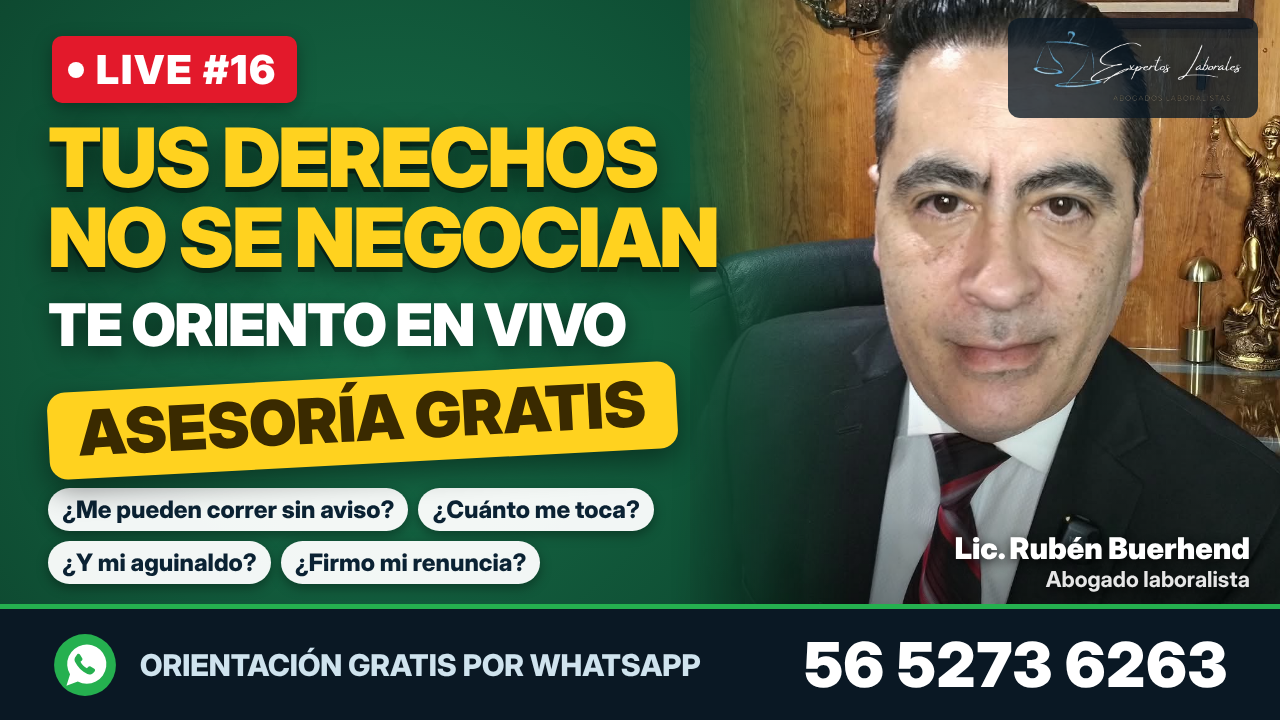
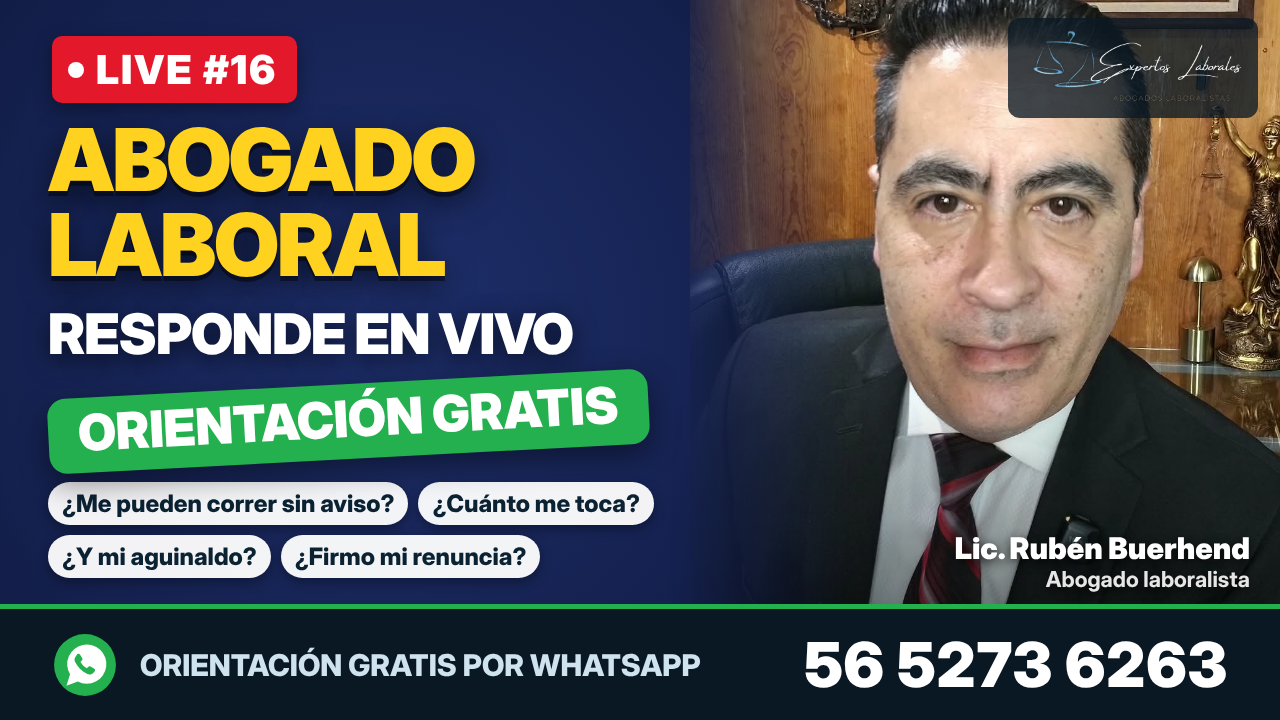
Miniaturas: 3 colores nuevos (negro, vino, azul marino)
Claude-Session: https://claude.ai/code/session_01C3deJav44xscTHSyeunJhm

diff --git a/marketing/miniaturas/generar_serie_lives.js b/marketing/miniaturas/generar_serie_lives.js
@@ -14,7 +14,7 @@ const FOTOS={
   roja:{src:'../fotos/ruben_selfie_corbata_roja.jpg',w:744,l:20,t:-230},
   selfie:{src:'../fotos/ruben_selfie_cerca_derecha.jpg',w:832,l:-192,t:-264,tapaDerecha:true},
 };
-const COLORES=[['#1f4e6b','#143650','#0b2233'],['#7a1a22','#4a0d14','#24060a'],['#17704a','#0e4a31','#062417'],['#5b3391','#3a1f63','#1b0d31'],['#b85a12','#7a3a0a','#331804'],['#126b78','#0b4650','#042226']];
+const COLORES=[['#1f4e6b','#143650','#0b2233'],['#7a1a22','#4a0d14','#24060a'],['#17704a','#0e4a31','#062417'],['#5b3391','#3a1f63','#1b0d31'],['#b85a12','#7a3a0a','#331804'],['#126b78','#0b4650','#042226'],['#3a3a3a','#1f1f1f','#0a0a0a'],['#6b1838','#450f24','#1f0610'],['#1e2f6b','#121d47','#070c22']];
 const FRASES=[
  {l1:'¿PROBLEMAS EN TU TRABAJO?',l2:'RESPONDO TUS PREGUNTAS',pill:'EN VIVO Y GRATIS'},
  {l1:'TUS DUDAS LABORALES',l2:'RESUELTAS EN VIVO',pill:'ASESORÍA GRATIS'},
@@ -73,7 +73,7 @@ for(let n=DESDE;n<=HASTA;n++){
 }
 fs.writeFileSync(REG,JSON.stringify(reg,null,1));
 // Versión legible del registro
-const NOMBRES_COLOR=['Azul','Rojo','Verde','Morado','Naranja','Turquesa'];
+const NOMBRES_COLOR=['Azul','Rojo','Verde','Morado','Naranja','Turquesa','Negro','Vino','Azul marino'];
 let md='# Registro de miniaturas "LIVE #N" (YouTube)\n\nCada combinación (color + frase + preguntas + foto) se usa una sola vez.\n\n| # | Color | Frase | Preguntas | Foto | Generada | Video de YouTube |\n|---|---|---|---|---|---|---|\n';
 for(const k of Object.keys(reg).map(Number).sort((a,b)=>a-b)){const r=reg[k];
   md+=`| ${k} | ${NOMBRES_COLOR[r.color]} | ${FRASES[r.frase].l1} | Juego ${r.preg+1} | ${r.foto} | ${r.generada||''} | ${r.video||'(pendiente)'} |\n`;}

diff --git a/marketing/miniaturas/registro.md b/marketing/miniaturas/registro.md
@@ -19,4 +19,4 @@ Cada combinación (color + frase + preguntas + foto) se usa una sola vez.
 | 13 | Rojo | DEFIENDE TU TRABAJO | Juego 1 | gris2 | 2026-11-16 | (pendiente) |
 | 14 | Azul | NO TE DEJES | Juego 2 | lila | 2026-11-16 | (pendiente) |
 | 15 | Morado | ¿CUÁNTO TE DEBEN? | Juego 3 | azul | 2026-11-23 | (pendiente) |
-| 16 | Verde | TUS DERECHOS NO SE NEGOCIAN | Juego 1 | roja | 2026-11-24 | (pendiente) |
+| 16 | Azul marino | ABOGADO LABORAL | Juego 1 | roja | 2026-11-24 | (pendiente) |
